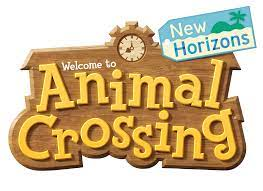
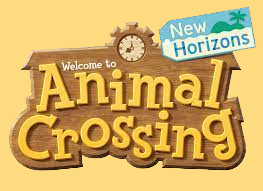
style coverpage

diff --git a/index.html b/index.html
@@ -10,26 +10,17 @@
     <title>Production Website</title>
 </head>
 <body>
-    <header>
-        <h1><img src="images/titleImage.png" alt="Welcome to Animal Crossing"></h1>
-    </header>
-    <main>
         <nav>
             <ul>
                 <li><a href="/">Home</a></li>
                 <li><a href="villagers.html">Villagers</a></li>
                 <li><a href="fishes.html">Fish</a></li>
             </ul>
-        </nav>
-        <div>
-            <form action="results.html" method="GET">
-                <label for="search">Search</label>
-                <input id="search" name="search" />
-                <input type="submit" value="Search" />
-            </form>
-        </div>
-        <div class="lds-hourglass"></div>   <!--Spinner-->
+        </nav>    
+        <div class="title"><img src="images/titleImage.png" alt="Welcome to Animal Crossing"></div>
+        <div class="picnic"><img src="images/familyPicnic.jpg" alt="Family Picnic">
+    
+    <!--  <div class="lds-hourglass"></div>   Spinner-->  
     </main>
 </body>
-</html>
 </html>

diff --git a/villagers.css b/villagers.css
@@ -6,22 +6,41 @@ h1 {
     text-align: center;
     color: hsl(30, 46%, 35%);
     font-size: 75px;
-    padding-bottom: 25px;
+    padding-top: 25px;
+}
+
+.logo {
+    position: relative;
+    margin-top: -70%;
 }
 
 nav {
-    float: right;
-    font-size: 25px;
-    color: black;
+    display: inline-flexbox;
+    position: relative;
+    margin-top: -6%;
+    margin-left: 85%;
+    padding: 30px;
+    font-size: 20px;
     font-weight: bold;
-    border-radius: 25px;
-    border: 3px solid black;
-    padding: 10px;
-    background-color: lightblue;
+    text-transform: uppercase;
 }
 
 a {
     text-decoration: none;
+    color:  hsl(43, 99%, 75%);
+}
+
+a:hover {
+    color: hsl(209, 84%, 51%);
+    transition: color 125ms;
+    text-decoration: none;
+}
+
+li {
+    padding: 10px;
+    border: 2px solid black;
+    border-radius: 0 50% 50% 0 ;
+    background-color: hsl(30, 46%, 55%)
 }
 
 .search-wrapper {
@@ -104,3 +123,4 @@ figcaption {
 .hidden {
     display: none;
 }
+

diff --git a/index.css b/index.css
@@ -1,16 +1,45 @@
-h1 {
-    text-align: center;
-    font-size: 50px;
+body {
+    background-color: hsl(43, 99%, 75%);
 }
 
 nav {
-    padding: 20px;
+    display: inline-flexbox;
+    position: relative;
+    margin-left: 85%;
+    padding: 30px;
+    font-size: 20px;
+    font-weight: bold;
+    text-transform: uppercase;
 }
 
-form {
+a {
+    text-decoration: none;
+    color:  hsl(43, 99%, 75%);
+}
+
+a:hover {
+    color: hsl(209, 84%, 51%);
+    transition: color 125ms;
+    text-decoration: none;
+}
+
+li {
+    padding: 10px;
+    border: 2px solid black;
+    border-radius: 0 50% 50% 0 ;
+    background-color: hsl(30, 46%, 55%)
+}
+
+
+.title {
+    text-align: center;
+    margin-top: -10%;
+    padding-bottom: 20px;
+}
+
+.picnic {
     text-align: center;
 }
-
 
 /* spinner */
 
@@ -45,3 +74,8 @@ form {
     transform: rotate(1800deg);
 }
 }
+
+.hidden {
+    display: none;
+}
+

diff --git a/fishes.css b/fishes.css
@@ -8,20 +8,38 @@ h1 {
     font-size: 75px;
     padding-bottom: 25px;
 }
+.logo {
+    position: relative;
+    margin-top: -70%;
+}
 
 nav {
-    float: right;
-    font-size: 25px;
-    color: black;
+    display: inline-flexbox;
+    position: relative;
+    margin-top: -6%;
+    margin-left: 85%;
+    padding: 30px;
+    font-size: 20px;
     font-weight: bold;
-    border-radius: 25px;
-    border: 3px solid black;
-    padding: 10px;
-    background-color: lightblue;
+    text-transform: uppercase;
 }
 
 a {
     text-decoration: none;
+    color:  hsl(43, 99%, 75%);
+}
+
+a:hover {
+    color: hsl(209, 84%, 51%);
+    transition: color 125ms;
+    text-decoration: none;
+}
+
+li {
+    padding: 10px;
+    border: 2px solid black;
+    border-radius: 0 50% 50% 0 ;
+    background-color: hsl(30, 46%, 55%)
 }
 
 .search-wrapper {

diff --git a/villagers.html b/villagers.html
@@ -21,9 +21,13 @@
                 <li><a href="fishes.html">Fishes</a></li>
             </ul>
         </nav> 
+        <div>
+            <img class= "logo" src="images/titleImage.png" alt="">
+        </div>
         <div class="search-wrapper">
-            <label for="search">Search Villagers:</label>
-            <input id="search" name="search" data-search />
+            <form>
+                <input type="text" placeholder=" Search Villagers" name="search" data-search>
+            </form>
         </div>
         <div class="villager-cards" data-villager-cards-container>
             <template data-villager-template>

diff --git a/fishes.js b/fishes.js
@@ -19,7 +19,7 @@ fetch(url)
     .then(response => response.json())
     .then(data => {
         spinner.classList.add('hidden')
-        fish = data.map(fish => {
+        fishes = data.map(fish => {
             const card = fishCardTemplate.content.cloneNode(true).children[0]
             const image = card.querySelector('[data-image]')
             const name = card.querySelector('[data-name]')    

diff --git a/fishes.html b/fishes.html
@@ -22,6 +22,9 @@
                 <li><a href="fishes.html">Fishes</a></li>
             </ul>
         </nav>
+        <div>
+            <img class= "logo" src="images/titleImage.png" alt="">
+        </div>
         <div class="search-wrapper">
             <form>
                 <input type="text" placeholder=" Search Fishes" name="search" data-search>
